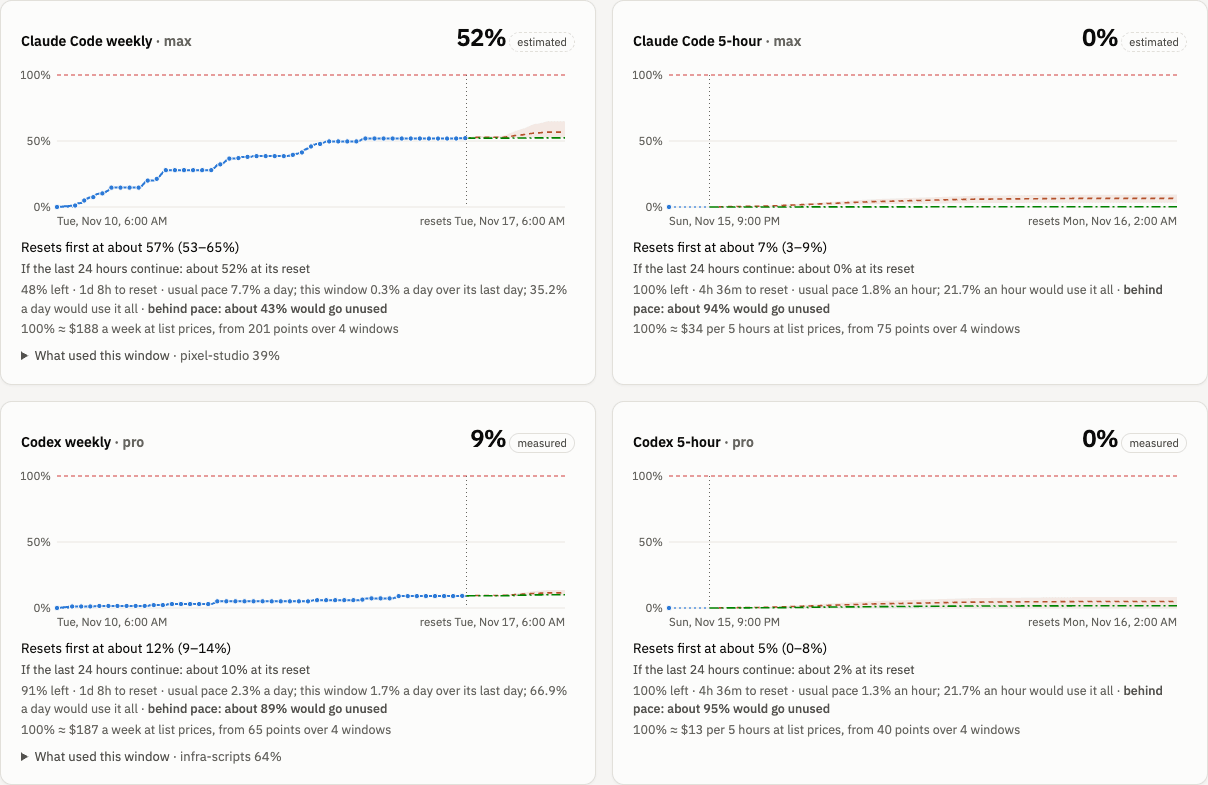
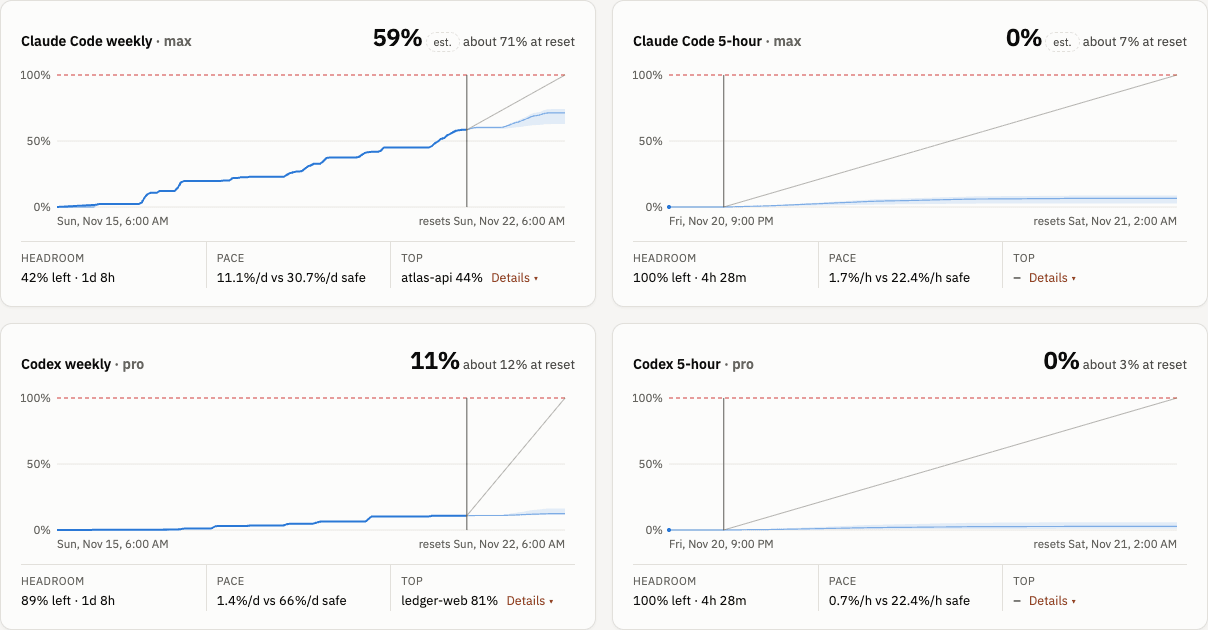
docs(limits): document the pace cone page and refresh its screenshots

diff --git a/openspec/changes/limits-pace-cone/tasks.md b/openspec/changes/limits-pace-cone/tasks.md
@@ -2,26 +2,26 @@
 
 ## 1. Helpers
 
-- [ ] 1.1 In `limits.ts`, add `safePace(w, now)` (the two ends of the safe-pace line, or null), `coneCrosses(w)`, `status(w)` (the card header's status and whether it is critical), `paceText(w)` (the footer's pace and whether it runs hot), `headroom(w, now)`, `chartRows(w, now)` (the data table: at most 12 sampled times and now), and the strip summary (`stripSummary`). Add `hits` to `Strip`. Give `readText` a flag for the scenario. Verify with `limits.test.ts` cases for the diagonal ends, for no diagonal (at limit, no reading, closed window), for the cone tint (high bound only, none, at limit), the hourly pace, and the strip summary.
+- [x] 1.1 In `limits.ts`, add `safePace(w, now)` (the two ends of the safe-pace line, or null), `coneCrosses(w)`, `status(w)` (the card header's status and whether it is critical), `paceText(w)` (the footer's pace and whether it runs hot), `headroom(w, now)`, `chartRows(w, now)` (the data table: at most 12 sampled times and now), and the strip summary (`stripSummary`). Add `hits` to `Strip`. Give `readText` a flag for the scenario. Verify with `limits.test.ts` cases for the diagonal ends, for no diagonal (at limit, no reading, closed window), for the cone tint (high bound only, none, at limit), the hourly pace, and the strip summary.
 
 ## 2. Chart
 
-- [ ] 2.1 Rewrite `LimitChart.tsx`: the actual line (measured solid, estimated faded, no dots), the cone with its middle (warning tint from `coneCrosses`), the `now` tick, the safe-pace line, the 100% grid line, a labelled plan-change tick, and the last-24-hours line only when `recent` is on. Keep the readout, the keyboard and the accessible name. Verify with `LimitChart.test.tsx`.
-- [ ] 2.2 Add forced-colors rules for the chart in `theme.css`. Verify by reading the CSS against `theme.css`'s existing forced-colors block.
+- [x] 2.1 Rewrite `LimitChart.tsx`: the actual line (measured solid, estimated faded, no dots), the cone with its middle (warning tint from `coneCrosses`), the `now` tick, the safe-pace line, the 100% grid line, a labelled plan-change tick, and the last-24-hours line only when `recent` is on. Keep the readout, the keyboard and the accessible name. Verify with `LimitChart.test.tsx`.
+- [x] 2.2 Add forced-colors rules for the chart in `theme.css`. Verify by reading the CSS against `theme.css`'s existing forced-colors block.
 
 ## 3. Card and page
 
-- [ ] 3.1 `WindowCard`: the header status, the three-column footer, and a `Details` button controlling a region with the caption, the scenario line, the paces, the share and surfaces lines, the cap money, what used the window and the data table.
-- [ ] 3.2 Remove `StatusStrip` and the chart key. Trim the heading to two figures and the suggestion to one figure. Make the hint one line, and add "How measured". Add the "Last 24 h pace" toggle.
-- [ ] 3.3 Replace the "Past windows" drawer and "Left unused" with a visible "Past windows" section: the range segment in its header, the strip summaries, the bar key, the picked window's panel, and the table behind `ChartTable`.
-- [ ] 3.4 `Filters.tsx`: add a `project` prop and export `RangeFilter`. The Limits header shows Source only. The Limits page asks `/api/limits` for no project, and the "What a point buys" table always folds.
-- [ ] 3.5 Update `LimitsPage.test.tsx` for the spec's scenarios, then run `cd web && npm run check` and commit the rebuilt `src/ai_ledger/web/`.
+- [x] 3.1 `WindowCard`: the header status, the three-column footer, and a `Details` button controlling a region with the caption, the scenario line, the paces, the share and surfaces lines, the cap money, what used the window and the data table.
+- [x] 3.2 Remove `StatusStrip` and the chart key. Trim the heading to two figures and the suggestion to one figure. Make the hint one line, and add "How measured". Add the "Last 24 h pace" toggle.
+- [x] 3.3 Replace the "Past windows" drawer and "Left unused" with a visible "Past windows" section: the range segment in its header, the strip summaries, the bar key, the picked window's panel, and the table behind `ChartTable`.
+- [x] 3.4 `Filters.tsx`: add a `project` prop and export `RangeFilter`. The Limits header shows Source only. The Limits page asks `/api/limits` for no project, and the "What a point buys" table always folds.
+- [x] 3.5 Update `LimitsPage.test.tsx` for the spec's scenarios, then run `cd web && npm run check` and commit the rebuilt `src/ai_ledger/web/`.
 
 ## 4. Demo and docs
 
-- [ ] 4.1 Update the Limits scene and shots in `tools/demo/record.mjs`. Regenerate the docs-site Limits shots from the demo store.
-- [ ] 4.2 Update `README.md`, the docs-site Limits page (`doc-coauthoring`; `cd site && npm run check`), and `CHANGELOG.md` `[Unreleased]`.
+- [x] 4.1 Update the Limits scene and shots in `tools/demo/record.mjs`. Regenerate the docs-site Limits shots from the demo store.
+- [x] 4.2 Update `README.md`, the docs-site Limits page (`doc-coauthoring`; `cd site && npm run check`), and `CHANGELOG.md` `[Unreleased]`.
 
 ## 5. Verify
 
-- [ ] 5.1 Run `uv run ruff check`, `uv run python -m unittest discover -s tests`, `openspec validate --specs --strict` and `openspec validate limits-pace-cone --strict`. Take before and after screenshots of Limits from the demo store, in light and dark.
+- [x] 5.1 Run `uv run ruff check`, `uv run python -m unittest discover -s tests`, `openspec validate --specs --strict` and `openspec validate limits-pace-cone --strict`. Take before and after screenshots of Limits from the demo store, in light and dark.

diff --git a/site/src/content/docs/reference/glossary.md b/site/src/content/docs/reference/glossary.md
@@ -170,22 +170,22 @@ See [Limits](/ai-ledger/pages/limits/). Open windows cover the whole account and
 
 | Figure | Meaning | Where | Playbook |
 | --- | --- | --- | --- |
-| Percent used | The share of a window's allowance used now, **measured** or **estimated**. | Heading; status strip; window cards | [Stop hitting plan limits](/ai-ledger/improve/plan-limits/) |
-| Resets in | The time to the window's reset. | Status strip; window cards | [Stop hitting plan limits](/ai-ledger/improve/plan-limits/) |
-| at limit, runs out | The window is at 100%, or is forecast to reach 100% before its reset. | Status strip | [Stop hitting plan limits](/ai-ledger/improve/plan-limits/) |
+| Percent used | The share of a window's allowance used now, **measured** or **estimated**. | Heading; card headers | [Stop hitting plan limits](/ai-ledger/improve/plan-limits/) |
+| Headroom | The percent left and the time to the window's reset. | Card footers | [Stop hitting plan limits](/ai-ledger/improve/plan-limits/) |
+| at its limit, runs out | The window is at 100%, or is forecast to reach 100% before its reset. | Heading; card headers | [Stop hitting plan limits](/ai-ledger/improve/plan-limits/) |
 | Limits alert (dot) | An open window is at its limit, is forecast to run out, or is at 90% or more. | The **Limits** tab, on every page | [Stop hitting plan limits](/ai-ledger/improve/plan-limits/) |
-| Forecast, likely range | Where the percent used goes by the reset, from your activity by hour of day. The range covers your usual pace and the window's own recent pace. | Window cards | [Stop hitting plan limits](/ai-ledger/improve/plan-limits/) |
+| Forecast cone | Where the percent used goes by the reset, from your activity by hour of day. The cone covers your usual pace and the window's own recent pace, and turns amber when its high edge reaches 100% before the reset. | Window cards | [Stop hitting plan limits](/ai-ledger/improve/plan-limits/) |
 | Reaches 100% at | The forecast time the window reaches 100%, before its reset. | Heading; window cards | [Stop hitting plan limits](/ai-ledger/improve/plan-limits/) |
 | Last 24 h pace | The forecast if your use of the last 24 hours continued to the reset. | Window cards | [Stop hitting plan limits](/ai-ledger/improve/plan-limits/) |
-| Usual pace; pace that would use it all | Your average rate for the provider, and the rate that ends at exactly 100% at the reset. | Window cards | [Stop hitting plan limits](/ai-ledger/improve/plan-limits/) |
+| Usual pace; safe pace | Your average rate for the provider, and the rate that ends at exactly 100% at the reset (the safe-pace line on the chart, "would use it all" in Details). | Card footers; Details | [Stop hitting plan limits](/ai-ledger/improve/plan-limits/) |
 | ahead of pace, behind pace | The forecast reaches 100% before the reset, or about N% would go unused. | Window cards | [Stop hitting plan limits](/ai-ledger/improve/plan-limits/) |
 | Send work to | The provider with the most headroom at the current pace, when two providers or more have a forecast. | Under the heading | [Compare Claude Code and Codex](/ai-ledger/improve/compare-sources/) |
 | Counted use | The local agent use that the app prices from transcripts. Use elsewhere, such as claude.ai, shows only at the next measured reading. | **What used this window** | [Stop hitting plan limits](/ai-ledger/improve/plan-limits/) |
 | What used this window | The top three projects and models of a window by estimated cost, with their share and points. | Window cards | [Stop hitting plan limits](/ai-ledger/improve/plan-limits/) |
 | Calibrated window | A window with a known estimated cost per point, worked out from past readings. A window calibrates once it has moved 5 points while its use was counted. | Window cards; **What a point buys** | – |
 | Cap in money | The calibrated cost of one point, times 100, at API list prices. | Window cards | [Spend less for the same output](/ai-ledger/improve/spend-less/) |
-| Left unused | The average share of a limit still unused when its full-length windows reset, in the range. | **Left unused** | [Spend less for the same output](/ai-ledger/improve/spend-less/) |
-| Final, At 100% for | A closed window's final percent, and how long it stayed at its limit. | **Past windows** drawer | [Stop hitting plan limits](/ai-ledger/improve/plan-limits/) |
+| avg N% unused | The average share of a limit still unused when its full-length windows reset, in the range. | **Past windows** | [Spend less for the same output](/ai-ledger/improve/spend-less/) |
+| Final, At 100% for | A closed window's final percent, and how long it stayed at its limit. | **Past windows** table | [Stop hitting plan limits](/ai-ledger/improve/plan-limits/) |
 | $ a point, Tokens a point | The estimated cost of one point of a limit, and the tokens of each model that one point buys. | **What a point buys** drawer | [Spend less for the same output](/ai-ledger/improve/spend-less/) |
 | Commits a point | A project's commits per point of a limit. | **What a point buys** drawer | [Retro on one project](/ai-ledger/improve/project-retro/) |
 

diff --git a/site/src/content/docs/improve/compare-sources.md b/site/src/content/docs/improve/compare-sources.md
@@ -9,7 +9,7 @@ Each kind of task goes to the agent that does it for less estimated cost per com
 
 ## Signs you need it
 
-- [Limits](/ai-ledger/pages/limits/) shows a suggestion such as "Send work to Codex: about 70% of its weekly limit would go unused (resets …)" (an example). The app shows it when two providers or more have a forecast, and names the one with the most headroom.
+- [Limits](/ai-ledger/pages/limits/) shows a suggestion such as "Send work to Codex: about 70% of its weekly limit would go unused" (an example). The app shows it when two providers or more have a forecast, and names the one with the most headroom.
 - On [Cost](/ai-ledger/pages/cost/), with **Stack by** set to **Agent**, the chart shows both Claude Code and Codex in the range.
 - Rule of thumb: you used both agents in one project in the last 30 days, and you cannot say which one costs less per commit there.
 
@@ -24,7 +24,7 @@ Compare like with like: the same project, the same range, and figures that both 
 3. On [Activity](/ai-ledger/pages/activity/), write down the heading's commits and prompts, and the **Work health** tiles **Test runs passed** and **Prompts interrupted**.
 4. On [Context](/ai-ledger/pages/context/), write down **Added per prompt** and **Sessions with a compaction** in **Growth**.
 5. Set the source to **Codex** and read the same figures again on the same pages.
-6. Open [Limits](/ai-ledger/pages/limits/) with the source at **All**. Read the heading, the status strip, and the suggestion if one shows.
+6. Open [Limits](/ai-ledger/pages/limits/) with the source at **All**. Read the heading, the status in each card's header, and the suggestion if one shows.
 
 Compare only these figures. The others differ by what each agent records:
 
@@ -81,7 +81,7 @@ Then open [Errors](/ai-ledger/pages/errors/) with the project filter and the sou
 
 ### Move work before a limit runs out
 
-When the Limits heading names a window that runs out before its reset, start your next task in the agent that the suggestion "Send work to …" names. Without a suggestion, read the status strip and pick the provider whose windows show no **at limit** and no **runs out**.
+When the Limits heading names a window that runs out before its reset, start your next task in the agent that the suggestion "Send work to …" names. Without a suggestion, read the card headers and pick the provider whose windows read neither **at its limit** nor **runs out**.
 
 Do not move work to a provider whose limit already shows **at limit**. Limits never suggests it.
 
@@ -95,8 +95,8 @@ After 14 days of work in the project, set the range to **14d** and pick the proj
 | --- | --- | --- |
 | **Per commit** | Cost, **Tokens and cache**, with the source at **All** | Lower than your note: more of the work went to the agent that costs less per commit. |
 | **Test runs passed** | Activity, **Work health**, with the source set to the agent that had the lower figure | Higher than your note, closer to the other agent's. |
-| Windows at limit | Limits, status strip, source at **All** | No chip reads **at limit** or **runs out**. |
-| **Left unused** | Limits, source at **All** | A smaller share for the provider you moved work to. |
+| Windows at limit | Limits, card headers, source at **All** | No card reads **at its limit** or **runs out**. |
+| **avg N% unused** | Limits, **Past windows**, source at **All** | A smaller share for the provider you moved work to. |
 
 If **Cost / commit** did not fall, check that the kind of task you moved is what the project's commits are about: read the session titles in Activity's **Sessions** drawer for each source. If one agent has fewer than 5 commits in the range, wait one more week.
 

diff --git a/CHANGELOG.md b/CHANGELOG.md
@@ -21,6 +21,14 @@ and versions follow [Semantic Versioning](https://semver.org/).
 - Cost puts the daily chart on the first screen. A plan gauge beside the heading shows the month's cost so far and its pace against a tick at your plan's monthly price, with an "N× plan" badge (the pace over the plan price). Without a known plan it shows the cost so far and the pace only. It replaces the sparkline and the "On pace for…" and "You pay about…" sentences. The old prorated "N× your plan" multiple of the range is gone.
 - Cost shows each project once, in "Project spend and change": a daily trend, spend with its share, the change against the previous period (new projects marked; projects used only before listed at $0), cost per commit and cache hit. Every column sorts, small projects fold into one row, and a row opens the project sheet. It replaces What changed, Where the spend went and the Cost by project drawer. Tokens, 1h writes, subagent cost share and cost per prompt per project are in its CSV and Copy export, which also gains the change.
 - Cost's heading keeps the cost and its change. The windows' days with prompts, the sessions, tokens and requests, and how the estimate and the pace are computed move to a "How measured" disclosure. The Biggest spender and Cache hit cards are gone; the project table and Tokens and cache show the same figures.
+- Limits is easier to read:
+  - Each open-window chart draws four things: the line used so far (solid where measured, faded where estimated), the forecast as a shaded cone (amber when its high edge reaches 100% before the reset), now, and a faint safe-pace line from now to 100% at the reset. The chart key is gone.
+  - Each card's header gives the percent and one status ("runs out …", "at its limit until …", "about N% at reset"). A footer gives headroom, pace against the safe pace ("18%/d vs 7%/d safe") and the top project. Everything else, including a table of the chart, is behind **Details**.
+  - The last 24 h pace line is behind one toggle.
+  - The status strip is gone; the Limits tab's alert dot stays.
+  - Past windows are always on the page, each limit with "avg N% unused · K hits", and replace the Left unused panel. Their table is behind **Show data table**.
+  - The time range moved into the Past windows header. Limits has no project filter: "What a point buys" lists every project, and the Project page still shows one project's plan-limit figures.
+  - The heading gives at most two figures, and the forecast method is behind **How measured**.
 
 - Text follows the browser's default font size: font sizes are relative, chart labels scale with them, and nothing is cut off at 200%. In Chrome and Edge 146+ the dashboard also follows the operating system's text scale.
 

diff --git a/site/src/content/docs/improve/weekly-review.md b/site/src/content/docs/improve/weekly-review.md
@@ -33,7 +33,7 @@ http://127.0.0.1:8765/usage?range=7
 | [2. Cost](#2-cost-2-minutes) | 2 | The heading, **What stands out** | [Spend less for the same output](/ai-ledger/improve/spend-less/) |
 | [3. Context](#3-context-2-minutes) | 2 | **Tips** | [Keep context lean](/ai-ledger/improve/lean-context/), [Spend less for the same output](/ai-ledger/improve/spend-less/) |
 | [4. Errors](#4-errors-3-minutes) | 3 | **Change**, **Where to start** | [Kill repeated tool failures](/ai-ledger/improve/tool-failures/) |
-| [5. Limits](#5-limits-2-minutes) | 2 | The heading, the status strip, **Left unused** | [Stop hitting plan limits](/ai-ledger/improve/plan-limits/) |
+| [5. Limits](#5-limits-2-minutes) | 2 | The heading, the card headers, **Past windows** | [Stop hitting plan limits](/ai-ledger/improve/plan-limits/) |
 | [6. Insights](#6-insights-2-minutes) | 2 | **Outcomes at a glance**, **Friction categories** | [Get sessions to finish](/ai-ledger/improve/finish-sessions/) |
 | [7. Live](#7-live-1-minute) | 1 | The rail's **approval?** and **your turn** groups | [Babysit agents less](/ai-ledger/improve/babysit-less/) |
 
@@ -95,12 +95,12 @@ If you marked a fix in an earlier week, open that type and read **Before and aft
 
 The open windows cover your whole account and ignore the range.
 
-Read the heading. The stop is off when it does not start with "No limit runs out at the current pace.", or when a chip in the status strip reads **at limit** or **runs out**. Open [Stop hitting plan limits](/ai-ledger/improve/plan-limits/).
+Read the heading. The stop is off when it does not start with "No limit runs out at the current pace.", or when a card's header reads **at its limit** or **runs out**. Open [Stop hitting plan limits](/ai-ledger/improve/plan-limits/).
 
 Then read two more lines:
 
 - A suggestion such as "Send work to Codex: about 70% of its weekly limit would go unused" (an example) names the provider with the most headroom. To act on it, open [Compare Claude Code and Codex](/ai-ledger/improve/compare-sources/).
-- **Left unused** gives the average share of each limit that was still unused when its windows reset. Rule of thumb: when a weekly limit reads 50% unused or more in every review of a month, your plan is larger than your use. Open [Spend less for the same output](/ai-ledger/improve/spend-less/) for the plan fit.
+- **Past windows** gives, under each limit's name, the average share still unused when its windows reset ("avg 60% unused"). Rule of thumb: when a weekly limit reads 50% unused or more in every review of a month, your plan is larger than your use. Open [Spend less for the same output](/ai-ledger/improve/spend-less/) for the plan fit.
 
 ### 6. Insights (2 minutes)
 

diff --git a/site/src/assets/shots/README.md b/site/src/assets/shots/README.md
@@ -30,9 +30,8 @@ Only the shots a page shows are kept: a shot no page references is deleted, and 
 | `errors-chart` | "Errors by type": failed tool calls over time. | Errors |
 | `errors-types` | "Error types": the table of types, counts and change. | Errors |
 | `errors-detail` | "Where to start": error types with a ready-made fix, and the fastest rising. | Errors, First tour, Kill repeated tool failures |
-| `limits-windows` | The four open plan windows: Claude Code and Codex, weekly and 5-hour, with pace and forecast. | Limits, First tour, Stop hitting plan limits |
-| `limits-unused` | "Left unused": plan left over at reset. | Limits |
-| `limits-history` | Past windows drawer, open. | Limits |
+| `limits-windows` | The four open plan windows: Claude Code and Codex, weekly and 5-hour, each with its pace cone chart and its headroom, pace and top project footer. | Limits, First tour, Stop hitting plan limits |
+| `limits-history` | "Past windows": a strip of bars per limit, with its average left unused and its hits. | Limits |
 | `insights-vitals` | The outcomes-at-a-glance row. | Insights |
 | `insights-outcomes` | "Outcomes", model-judged. | Insights, First tour |
 | `insights-friction` | "Friction categories", model-judged. | Insights |

diff --git a/README.md b/README.md
@@ -24,7 +24,7 @@ Needs [uv](https://docs.astral.sh/uv/). Runs on macOS and Linux. Your data stays
 | **Cost** | Estimated spend at API list prices per day, and the month's pace against your plan. One table shows each project's trend, spend, change, cost per commit and cache hit. |
 | **Context** | How full the context window gets, how fast it grows, and what fills it. |
 | **Errors** | Failed tool calls by type, the time they cost, and a fix to paste into `CLAUDE.md` or `AGENTS.md`. |
-| **Limits** | Each plan limit window, what used it, and a forecast to its reset. |
+| **Limits** | Each plan limit window with its forecast cone and the safe pace to its reset, what used it, and how past windows ended. |
 | **Insights** | How Claude Code's `/insights` judged your sessions. |
 | **Live** | Every active session as it runs, sorted by who needs you first. |
 | **Project** | One project across all of the above, opened from the "Project page" link beside the project filter, its sheet, or its name in the command palette. |
